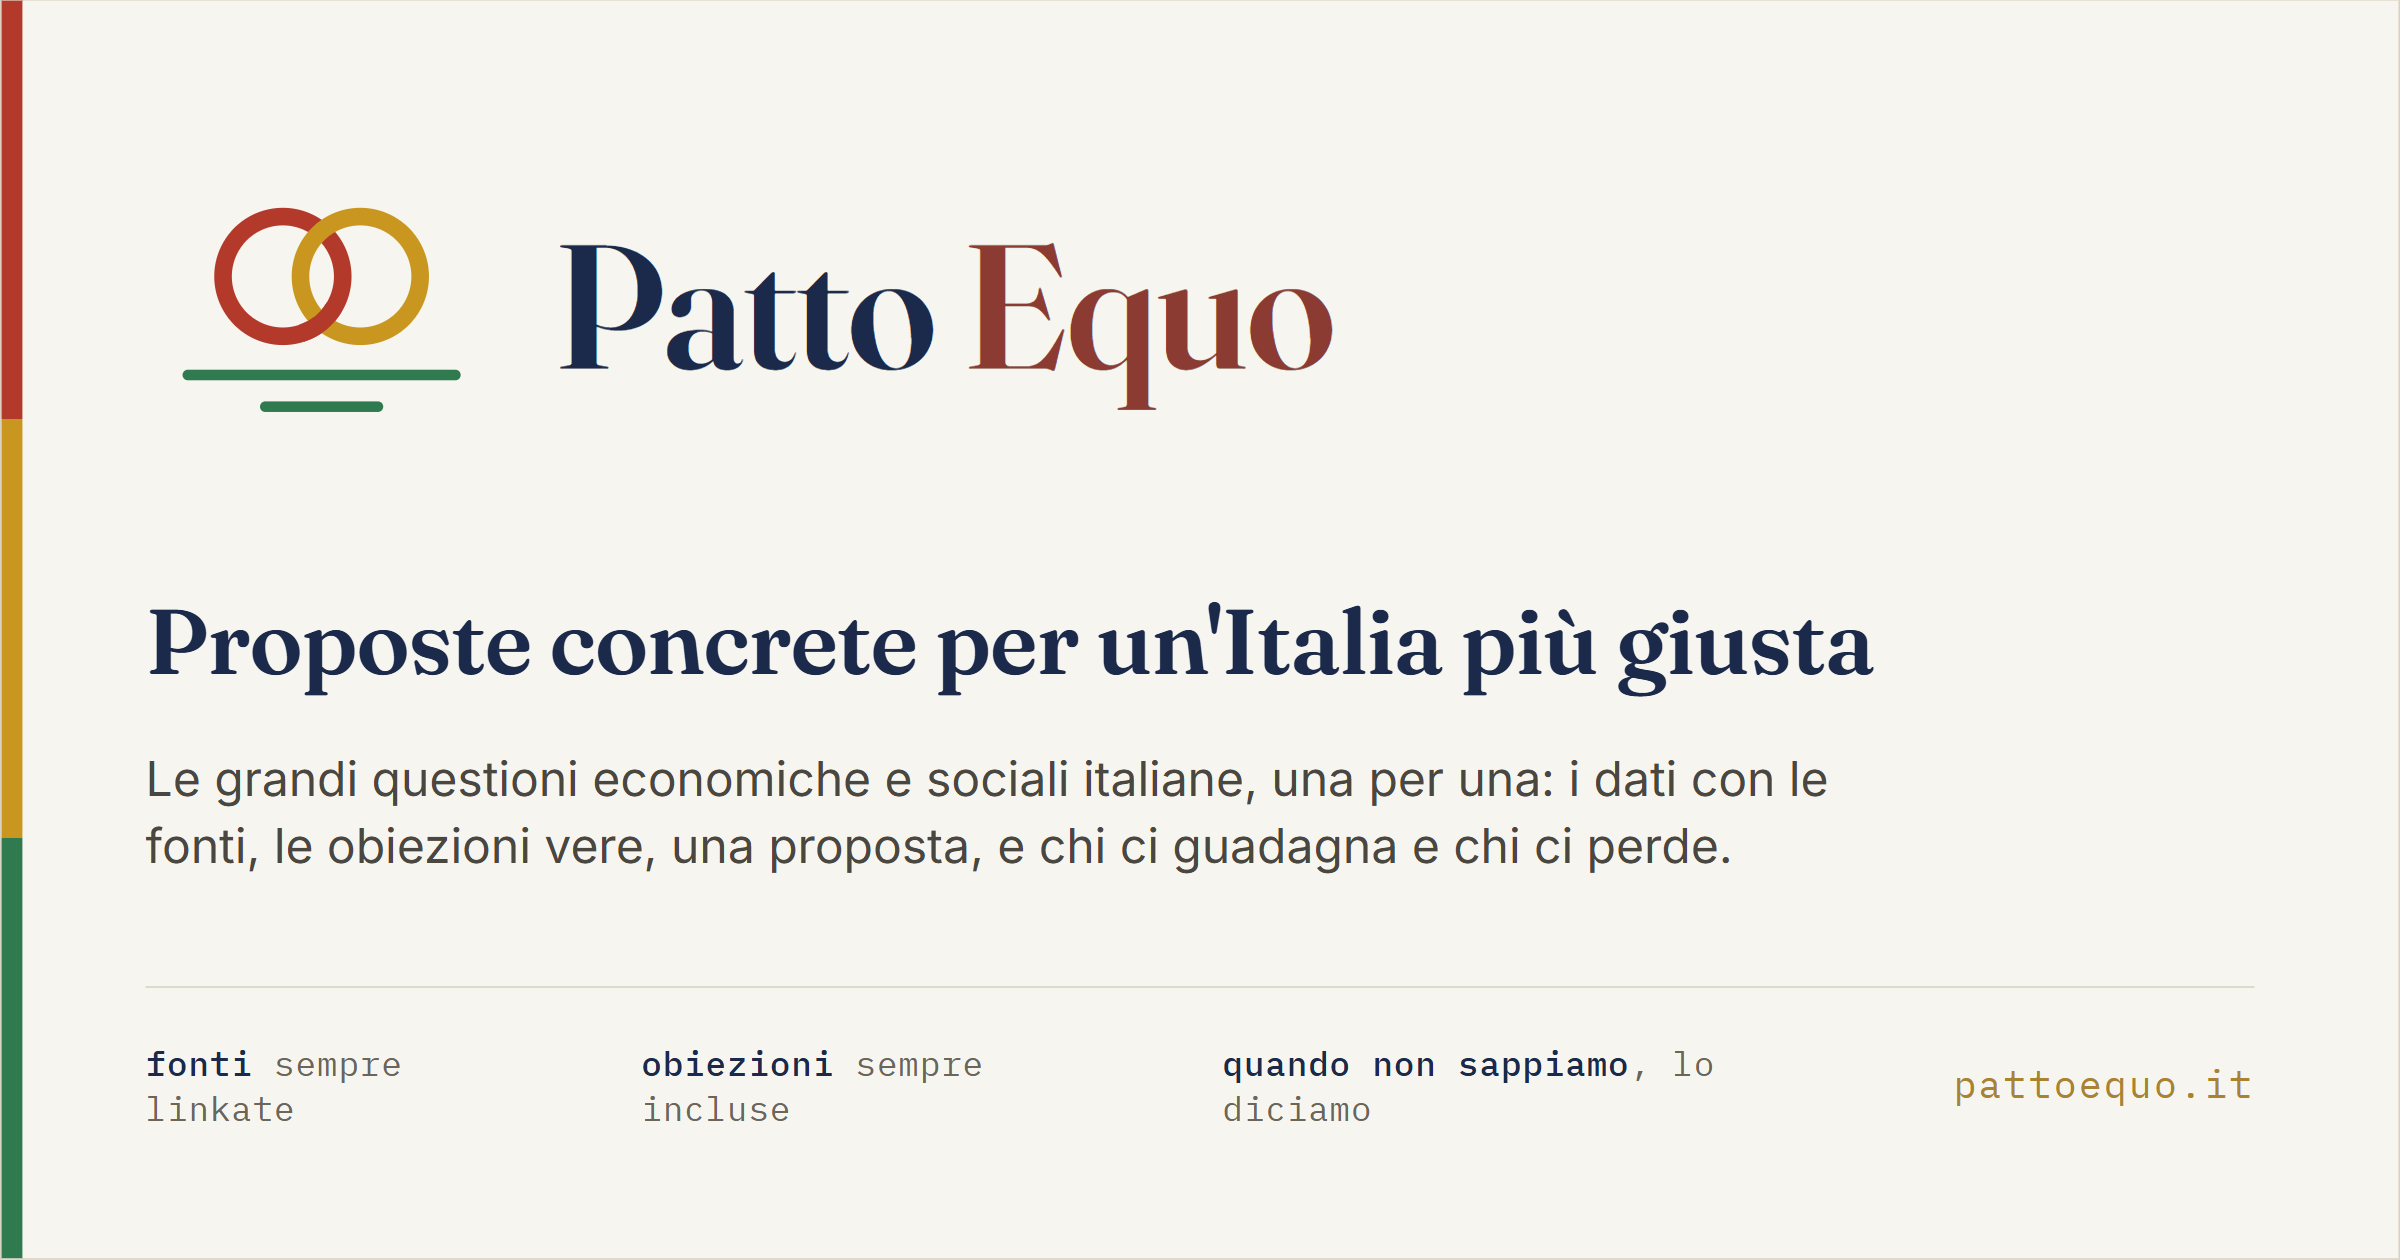
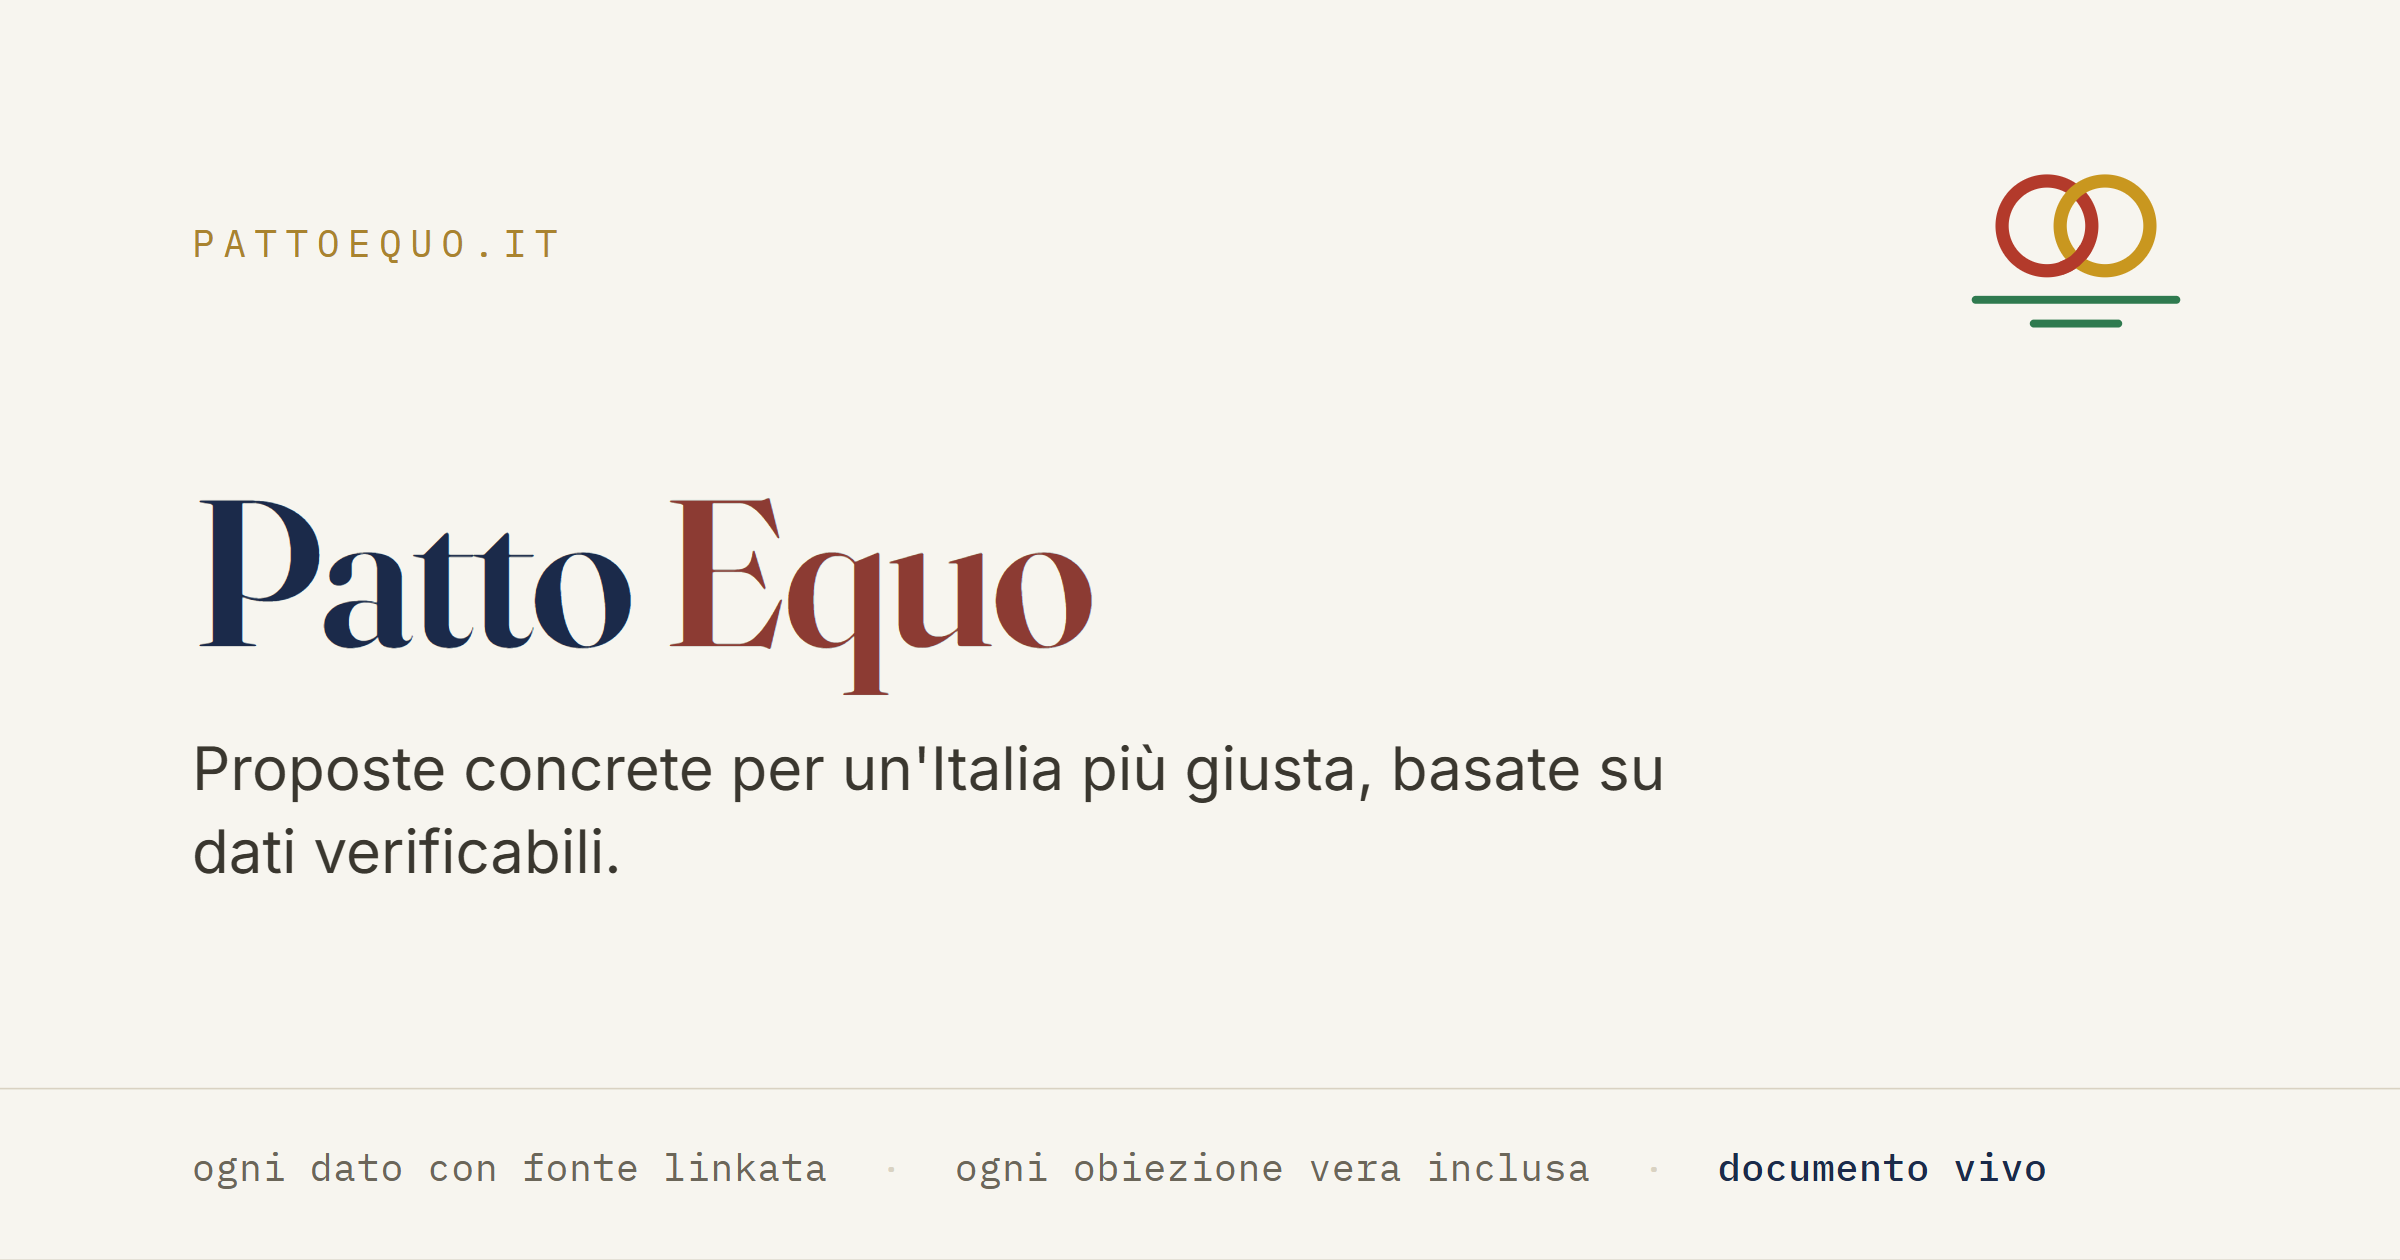
Add files via upload

diff --git a/og-image.html b/og-image.html
@@ -9,8 +9,7 @@
 <link href="https://fonts.googleapis.com/css2?family=Fraunces:opsz,wght@9..144,400;9..144,500;9..144,600;9..144,700&family=Inter:wght@400;500;600&family=IBM+Plex+Mono:wght@400;500&display=swap" rel="stylesheet">
 <style>
   :root{
-    --ink:#1B2A4A; --paper:#F7F5EF; --paper-deep:#EFEBE1; --red:#8C3B33;
-    --gold:#A9832F; --line:#D9D2C2; --green-gain:#3E6B4F;
+    --ink:#1B2A4A; --paper:#F7F5EF; --red:#8C3B33; --gold:#A9832F; --line:#D9D2C2;
     --logo-red:#B33A2B; --logo-gold:#C9971F; --logo-green:#2F7A4F;
   }
   *{box-sizing:border-box;}
@@ -24,24 +23,29 @@
   /* --- IL NODO DA CATTURARE: 1200 x 630 --- */
   #card{
     width:1200px; height:630px; background:var(--paper); position:relative;
-    display:flex; flex-direction:column; justify-content:space-between;
-    padding:64px 72px; overflow:hidden; margin:0 auto;
-    border:1px solid var(--line);
+    display:flex; flex-direction:column; padding:58px 96px 0; overflow:hidden; margin:0 auto;
   }
-  #card .marchio{display:flex; align-items:center; gap:28px;}
-  #card .marchio .nome{font-family:'Fraunces',serif; font-weight:600; font-size:88px; color:var(--ink); letter-spacing:-0.01em;}
-  #card .marchio .nome span{color:var(--red);}
-  #card h1{
-    font-family:'Fraunces',serif; font-weight:600; color:var(--ink); margin:0;
-    font-size:46px; line-height:1.18; letter-spacing:-0.01em; max-width:940px;
+  #card .alto{display:flex; align-items:flex-start; justify-content:space-between;}
+  #card .dominio{
+    font-family:'IBM Plex Mono',monospace; font-size:19px; letter-spacing:0.22em;
+    text-transform:uppercase; color:var(--gold); padding-top:52px;
   }
-  #card .claim{font-size:24px; color:#4a4640; margin:24px 0 0; max-width:900px; line-height:1.42;}
-  #card .metodo{display:flex; gap:34px; align-items:center; border-top:1px solid var(--line); padding-top:26px;}
-  #card .metodo .voce{font-family:'IBM Plex Mono',monospace; font-size:17px; letter-spacing:0.03em; color:#6b6659;}
-  #card .metodo .voce b{color:var(--ink); font-weight:500;}
-  #card .dominio{margin-left:auto; font-family:'IBM Plex Mono',monospace; font-size:19px; color:var(--gold); letter-spacing:0.06em;}
-  #card .fascia{position:absolute; left:0; top:0; width:10px; height:100%;
-    background:linear-gradient(180deg, var(--logo-red) 0 33.3%, var(--logo-gold) 33.3% 66.6%, var(--logo-green) 66.6% 100%);}
+  #card .centro{margin-top:44px;}
+  #card .nome{
+    font-family:'Fraunces',serif; font-weight:600; font-size:104px; line-height:1;
+    color:var(--ink); letter-spacing:-0.015em; margin:0;
+  }
+  #card .nome em{color:var(--red); font-style:normal;}
+  #card .claim{
+    font-size:30px; line-height:1.38; color:#3a372f; margin:26px 0 0; max-width:760px;
+  }
+  #card .basso{
+    position:absolute; left:0; right:0; bottom:0; padding:26px 96px 34px;
+    border-top:1px solid var(--line);
+    font-family:'IBM Plex Mono',monospace; font-size:19px; color:#6b6659; letter-spacing:0.02em;
+  }
+  #card .basso b{color:var(--ink); font-weight:500;}
+  #card .basso .sep{color:var(--line); padding:0 14px;}
 </style>
 </head>
 <body>
@@ -52,35 +56,31 @@
     <li>Apri questo file in Chrome.</li>
     <li>Tasto destro sulla card qui sotto → <b>Ispeziona</b>.</li>
     <li>Nel pannello Elements, tasto destro sul nodo <code>&lt;div id="card"&gt;</code> → <b>Capture node screenshot</b>.</li>
-    <li>Il PNG scaricato va rinominato <code>og-image.png</code> (un solo <code>.png</code>) e messo nella cartella del sito, accanto a <code>index.html</code>.</li>
+    <li>Il PNG scaricato va rinominato <code>og-image.png</code> (un solo <code>.png</code>), messo nella cartella del sito accanto a <code>index.html</code> e caricato nella radice del repository GitHub.</li>
   </ol>
   Su uno schermo ad alta densità la cattura esce a 2400×1260 invece di 1200×630: va bene, ma i meta <code>og:image:width</code> e <code>og:image:height</code> delle pagine devono dichiarare le dimensioni reali del file.
+  <br><b>Regola di questa card:</b> pochi elementi molto grandi. Nel feed di LinkedIn viene mostrata larga circa 500 px, cioè meno della metà: tutto quello che qui è piccolo, lì sparisce.
 </div>
 
 <div id="card">
-  <span class="fascia"></span>
-
-  <div class="marchio">
-    <svg viewBox="0 0 100 100" width="176" height="176" xmlns="http://www.w3.org/2000/svg">
+  <div class="alto">
+    <span class="dominio">pattoequo.it</span>
+    <svg viewBox="0 0 100 100" width="132" height="132" xmlns="http://www.w3.org/2000/svg">
       <circle cx="39" cy="42" r="17" fill="none" stroke="#B33A2B" stroke-width="5"/>
       <circle cx="61" cy="42" r="17" fill="none" stroke="#C9971F" stroke-width="5"/>
       <path d="M 53.72 50.5 A 17 17 0 0 1 44.25 58.17" fill="none" stroke="#B33A2B" stroke-width="5"/>
       <line x1="12" y1="70" x2="88" y2="70" stroke="#2F7A4F" stroke-width="3" stroke-linecap="round"/>
       <line x1="34" y1="79" x2="66" y2="79" stroke="#2F7A4F" stroke-width="3" stroke-linecap="round"/>
     </svg>
-    <span class="nome">Patto <span>Equo</span></span>
   </div>
 
-  <div>
-    <h1>Proposte concrete per un'Italia più giusta</h1>
-    <p class="claim">Le grandi questioni economiche e sociali italiane, una per una: i dati con le fonti, le obiezioni vere, una proposta, e chi ci guadagna e chi ci perde.</p>
+  <div class="centro">
+    <p class="nome">Patto <em>Equo</em></p>
+    <p class="claim">Proposte concrete per un'Italia più giusta, basate su dati verificabili.</p>
   </div>
 
-  <div class="metodo">
-    <span class="voce"><b>fonti</b> sempre linkate</span>
-    <span class="voce"><b>obiezioni</b> sempre incluse</span>
-    <span class="voce"><b>quando non sappiamo</b>, lo diciamo</span>
-    <span class="dominio">pattoequo.it</span>
+  <div class="basso">
+    ogni dato con fonte linkata <span class="sep">·</span> ogni obiezione vera inclusa <span class="sep">·</span> <b>documento vivo</b>
   </div>
 </div>
 
